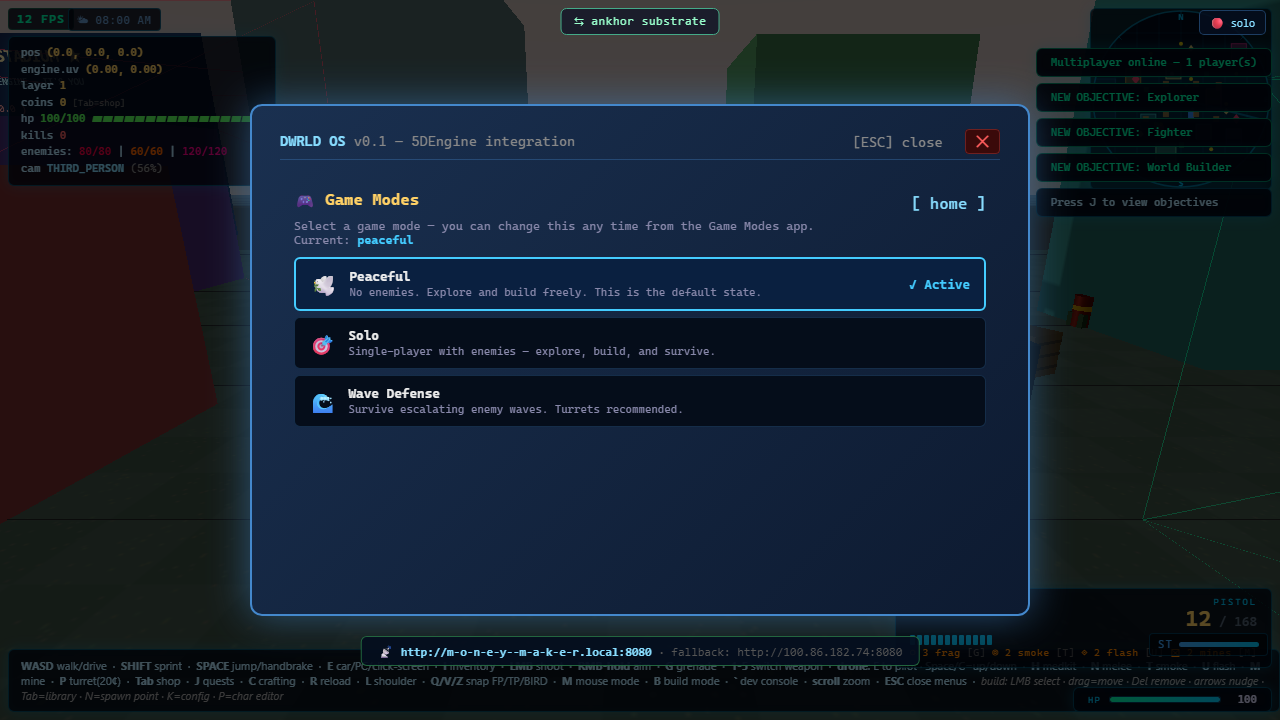
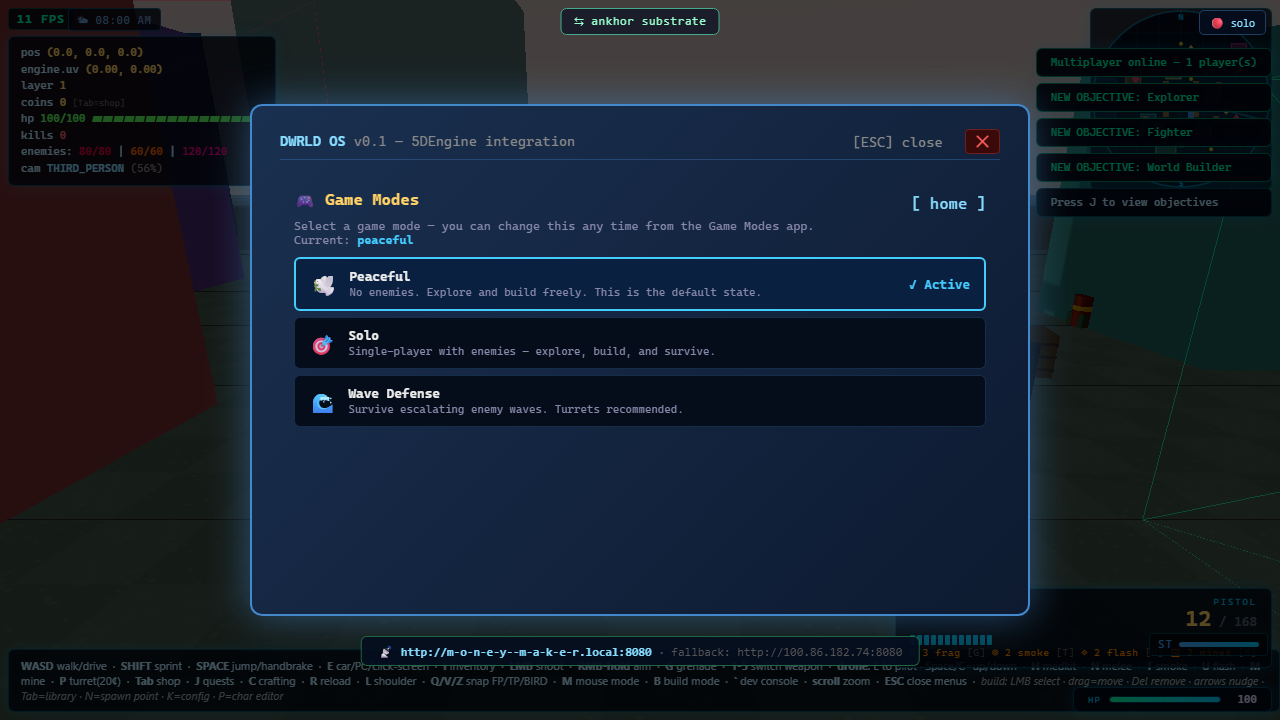
iter 1044: remove ES module files from scripts — only IIFE globals

diff --git a/index.html b/index.html
@@ -18,34 +18,13 @@ html,body{margin:0;height:100%;background:#0b0d12;overflow:hidden}
   <div id="loadBarWrap"><div id="loadBar"></div></div>
   <div id="loadHint">browser · three.js · wave combat</div>
 </div>
-<!-- Legacy globals — loaded synchronously so adapters can reference window.* -->
+<!-- Legacy globals — IIFE pattern, no ES exports -->
 <script src="./src/core/engine.js"></script>
 <script src="./src/core/event_bus.js"></script>
 <script src="./src/world/day_night.js"></script>
 <script src="./src/render/particle_system.js"></script>
-<script src="./src/render/camera_spine.js"></script>
-<script src="./src/world/world_data.js"></script>
-<script src="./src/combat/guns.js"></script>
-<script src="./src/combat/health.js"></script>
-<script src="./src/physics/physics.js"></script>
 <script src="./src/systems/registry.js"></script>
 <script src="./src/systems/inventory.js"></script>
-<script src="./src/render/vfx.js"></script>
-<script src="./src/systems/status_effects.js"></script>
-<script src="./src/systems/wave_manager.js"></script>
-<script src="./src/entities/behavior_tree.js"></script>
-<script src="./src/world/terrain.js"></script>
-<script src="./src/systems/a_star.js"></script>
-<script src="./src/progression/achievements.js"></script>
-<script src="./src/systems/cutscene.js"></script>
-<script src="./src/audio/sound_zones.js"></script>
-<script src="./src/activities/crafting.js"></script>
-<script src="./src/config/game_config.js"></script>
-<script src="./src/devices/devices.js"></script>
-<script src="./src/devices/wires.js"></script>
-<script src="./src/entities/entity.js"></script>
-<script src="./src/bridges/engine_bridge.js"></script>
-<script src="./src/bridges/engine_browser.js"></script>
 <canvas id="stage"></canvas>
 <div id="boot" style="position:fixed;top:8px;left:8px;color:#0f0;font:11px monospace;z-index:10;pointer-events:none">ankhor</div>
 <a href="./game.html" style="position:fixed;top:8px;left:50%;transform:translateX(-50%);z-index:9999;background:rgba(20,24,40,0.85);border:1px solid #4a8;border-radius:6px;padding:5px 12px;color:#9fc;font:12px monospace;text-decoration:none;">⇆ legacy game</a>